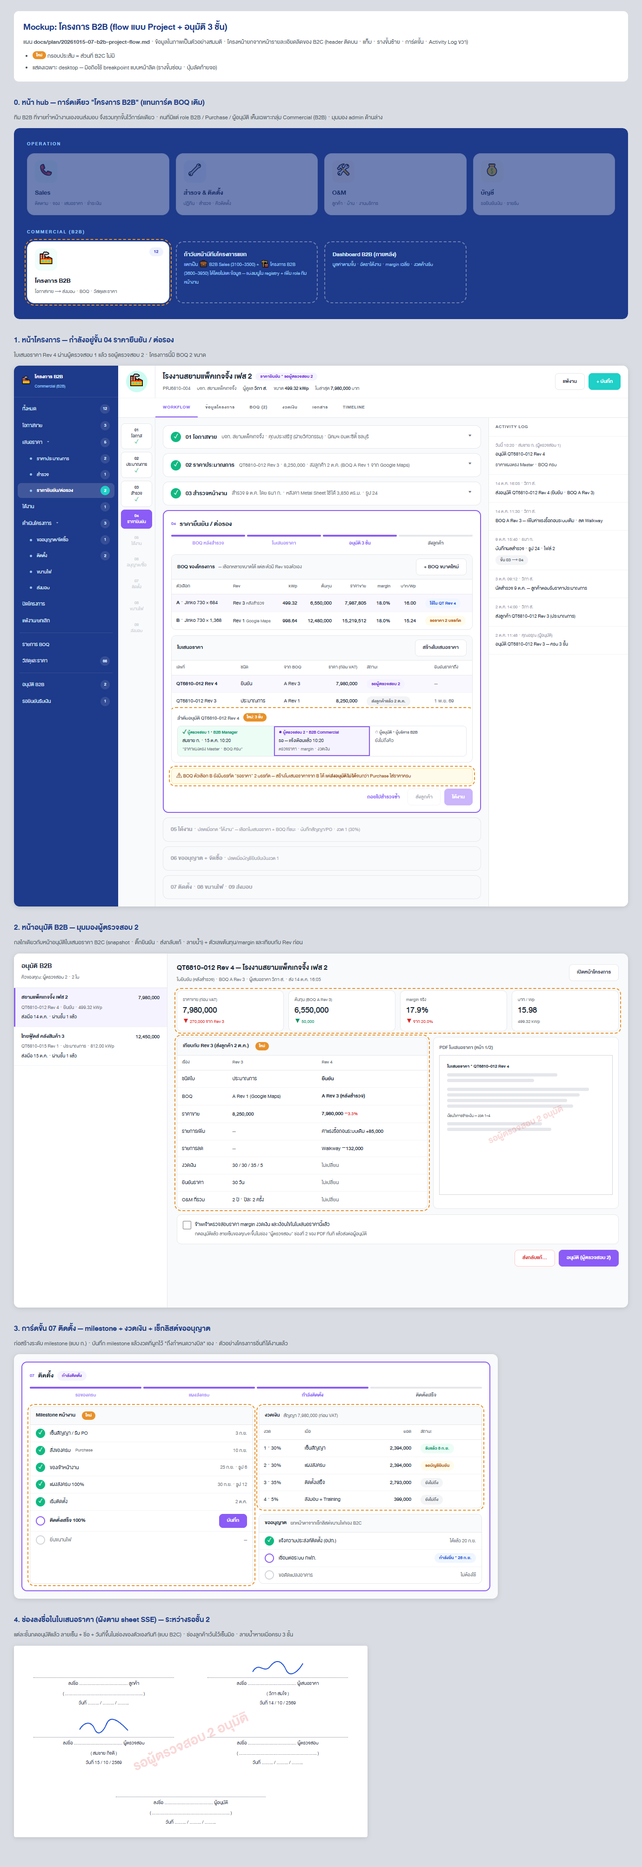
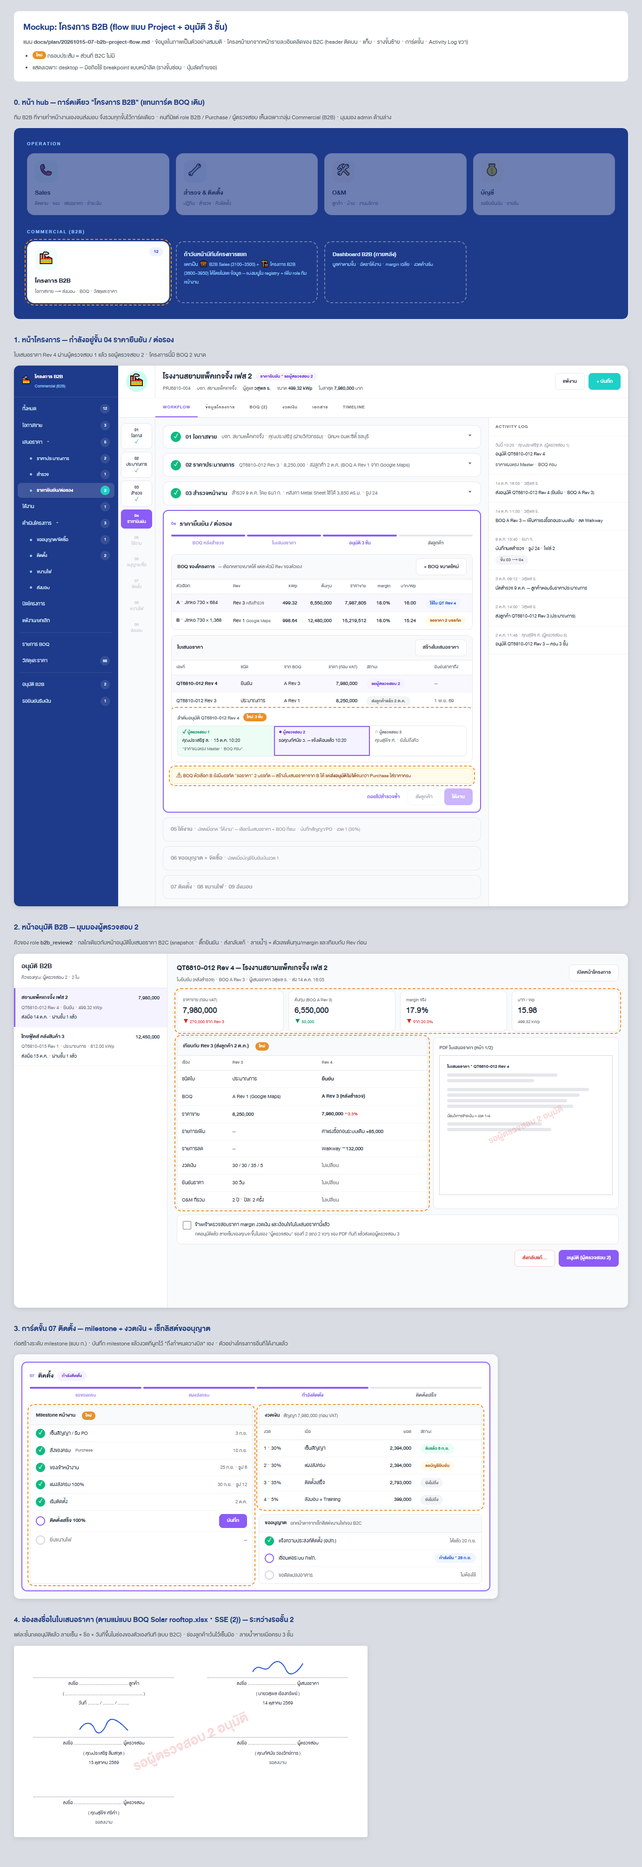
แผนโครงการ B2B: ผู้ตรวจสอบ 3 ช่องตามแม่แบบใบเสนอราคา + เคาะคำถามค้างครบ · เริ่มเฟส 1
- ป้าย/ผู้ลงชื่อตามแม่แบบ BOQ Solar rooftop.xlsx (sheet SSE (2)): ผู้เสนอราคา + ผู้ตรวจสอบ 3 ช่อง (ไม่มีช่องผู้อนุมัติ)
  → role ใหม่ b2b_review1–3 ตามตำแหน่งช่อง (ซ้าย → ขวา → แถวล่าง) แทนชื่อชั่วคราว
- ทั้ง 4 ท่านในแม่แบบยังไม่มีบัญชีใน solardb_v3 — ต้องสร้าง + อัปโหลดลายเซ็นก่อนทดสอบเฟส 2
- ลบ BOQ ทดสอบ 4 ใบด้วยสคริปต์ล้างข้อมูลเทสก่อนเฟส 1
- คำถามข้อ 2–6 ผู้ใช้ตอบ "ตามเสนอ" (อนุมัติ 2 ชั้นคนเดียวไม่ได้ยกเว้น admin · ผู้ดูแล 1 คน · Purchase เห็นเฉพาะขั้นจัดซื้อ
  · ยืนยันเงินใช้หน้าบัญชีเดิม · ปุ่มสลับรายการ/กระดาน)
- mockup: ช่องลงชื่อ/ชื่อผู้ตรวจสอบตามแม่แบบ · สถานะแผน in-progress

diff --git a/docs/mockup/20261015-07-b2b-project-flow/index.html b/docs/mockup/20261015-07-b2b-project-flow/index.html
@@ -153,7 +153,6 @@
   .sc{text-align:center}
   .sc .img{height:44px;display:flex;align-items:flex-end;justify-content:center}
   .sc .line{border-top:1px dotted var(--g500);margin:2px 16px 2px;padding-top:2px}
-  .sc.solo-row{grid-column:1 / span 2;max-width:50%;margin:0 auto;width:100%}
 </style>
 </head>
 <body>
@@ -170,7 +169,7 @@
 
 <!-- ═════════════ 0. หน้า hub ═════════════ -->
 <div class="sec-title">0. หน้า hub — การ์ดเดียว "โครงการ B2B" (แทนการ์ด BOQ เดิม)</div>
-<div class="sec-note">ทีม B2B ที่ขายทำหน้างานเองจนส่งมอบ จึงรวมทุกขั้นไว้การ์ดเดียว · คนที่มีแต่ role B2B / Purchase / ผู้อนุมัติ เห็นเฉพาะกลุ่ม Commercial (B2B) · มุมมอง admin ด้านล่าง</div>
+<div class="sec-note">ทีม B2B ที่ขายทำหน้างานเองจนส่งมอบ จึงรวมทุกขั้นไว้การ์ดเดียว · คนที่มีแต่ role B2B / Purchase / ผู้ตรวจสอบ เห็นเฉพาะกลุ่ม Commercial (B2B) · มุมมอง admin ด้านล่าง</div>
 <div class="scroll" style="box-shadow:none">
 <div class="hub">
   <div class="hub-g">Operation</div>
@@ -227,7 +226,7 @@
         <div class="hdr-txt">
           <h2>โรงงานสยามแพ็คเกจจิ้ง เฟส 2 <span class="pill p-active">ราคายืนยัน · รอผู้ตรวจสอบ 2</span></h2>
           <div class="hdr-meta">
-            <span>PRJ6810-004</span><span>บจก. สยามแพ็คเกจจิ้ง</span><span>ผู้ดูแล <b>วิภา ส.</b></span>
+            <span>PRJ6810-004</span><span>บจก. สยามแพ็คเกจจิ้ง</span><span>ผู้ดูแล <b>วสุพล ร.</b></span>
             <span>ขนาด <b class="num">499.32 kWp</b></span><span>ใบล่าสุด <b class="num">7,980,000</b> บาท</span>
           </div>
         </div>
@@ -287,9 +286,9 @@
             <div style="padding:8px 12px 12px" class="new">
               <div class="xs b muted">ลำดับอนุมัติ QT6810-012 Rev 4 <span class="newtag">ใหม่: 3 ชั้น</span></div>
               <div class="tier">
-                <div class="tb ok"><div class="k">✓ ผู้ตรวจสอบ 1 · B2B Manager</div>สมชาย ก. · 15 ต.ค. 10:20<br><span class="muted tiny">"ราคาแผงตรง Master · BOQ ครบ"</span></div>
-                <div class="tb wait"><div class="k">● ผู้ตรวจสอบ 2 · B2B Commercial</div>รอ — แจ้งเตือนแล้ว 10:20<br><span class="muted tiny">ตรวจราคา · margin · งวดเงิน</span></div>
-                <div class="tb"><div class="k">○ ผู้อนุมัติ · ผู้บริหาร B2B</div><span class="muted">ยังไม่ถึงคิว</span></div>
+                <div class="tb ok"><div class="k">✓ ผู้ตรวจสอบ 1</div>คุณประเสริฐ ล. · 15 ต.ค. 10:20<br><span class="muted tiny">"ราคาแผงตรง Master · BOQ ครบ"</span></div>
+                <div class="tb wait"><div class="k">● ผู้ตรวจสอบ 2</div>รอคุณทัศนัย ว. — แจ้งเตือนแล้ว 10:20</div>
+                <div class="tb"><div class="k">○ ผู้ตรวจสอบ 3</div><span class="muted">คุณสุพิจ ศ. · ยังไม่ถึงคิว</span></div>
               </div>
             </div>
           </div>
@@ -309,13 +308,13 @@
 
       <aside class="log">
         <div class="log-h">Activity Log</div>
-        <div class="le"><div class="w">วันนี้ 10:20 · สมชาย ก. (ผู้ตรวจสอบ 1)</div>อนุมัติ QT6810-012 Rev 4<q>ราคาแผงตรง Master · BOQ ครบ</q></div>
-        <div class="le"><div class="w">14 ต.ค. 16:05 · วิภา ส.</div>ส่งอนุมัติ QT6810-012 Rev 4 (ยืนยัน · BOQ A Rev 3)</div>
-        <div class="le"><div class="w">14 ต.ค. 11:30 · วิภา ส.</div>BOQ A Rev 3 — เพิ่มค่าแรงรื้อถอนระบบเดิม · ลด Walkway</div>
+        <div class="le"><div class="w">วันนี้ 10:20 · คุณประเสริฐ ล. (ผู้ตรวจสอบ 1)</div>อนุมัติ QT6810-012 Rev 4<q>ราคาแผงตรง Master · BOQ ครบ</q></div>
+        <div class="le"><div class="w">14 ต.ค. 16:05 · วสุพล ร.</div>ส่งอนุมัติ QT6810-012 Rev 4 (ยืนยัน · BOQ A Rev 3)</div>
+        <div class="le"><div class="w">14 ต.ค. 11:30 · วสุพล ร.</div>BOQ A Rev 3 — เพิ่มค่าแรงรื้อถอนระบบเดิม · ลด Walkway</div>
         <div class="le"><div class="w">9 ต.ค. 15:40 · ธนา ก.</div>บันทึกผลสำรวจ · รูป 24 · ไฟล์ 2<br><span class="pill p-gray" style="margin-top:4px">ขั้น 03 → 04</span></div>
-        <div class="le"><div class="w">3 ต.ค. 09:12 · วิภา ส.</div>นัดสำรวจ 9 ต.ค. — ลูกค้าตอบรับราคาประมาณการ</div>
-        <div class="le"><div class="w">2 ต.ค. 14:00 · วิภา ส.</div>ส่งลูกค้า QT6810-012 Rev 3 (ประมาณการ)</div>
-        <div class="le"><div class="w">2 ต.ค. 11:48 · คุณอรุณ (ผู้อนุมัติ)</div>อนุมัติ QT6810-012 Rev 3 — ครบ 3 ชั้น</div>
+        <div class="le"><div class="w">3 ต.ค. 09:12 · วสุพล ร.</div>นัดสำรวจ 9 ต.ค. — ลูกค้าตอบรับราคาประมาณการ</div>
+        <div class="le"><div class="w">2 ต.ค. 14:00 · วสุพล ร.</div>ส่งลูกค้า QT6810-012 Rev 3 (ประมาณการ)</div>
+        <div class="le"><div class="w">2 ต.ค. 11:48 · คุณสุพิจ ศ. (ผู้ตรวจสอบ 3)</div>อนุมัติ QT6810-012 Rev 3 — ครบ 3 ชั้น</div>
       </aside>
     </div>
   </div>
@@ -324,7 +323,7 @@
 
 <!-- ═════════════ 2. หน้าอนุมัติ B2B ═════════════ -->
 <div class="sec-title">2. หน้าอนุมัติ B2B — มุมมองผู้ตรวจสอบ 2</div>
-<div class="sec-note">กลไกเดียวกับหน้าอนุมัติใบเสนอราคา B2C (snapshot · ติ๊กยืนยัน · ส่งกลับแก้ · ลายน้ำ) + ตัวเลขต้นทุน/margin และเทียบกับ Rev ก่อน</div>
+<div class="sec-note">คิวของ role <b>b2b_review2</b> · กลไกเดียวกับหน้าอนุมัติใบเสนอราคา B2C (snapshot · ติ๊กยืนยัน · ส่งกลับแก้ · ลายน้ำ) + ตัวเลขต้นทุน/margin และเทียบกับ Rev ก่อน</div>
 <div class="scroll">
 <div class="apv">
   <div class="queue">
@@ -335,7 +334,7 @@
   <div class="detail">
     <div style="display:flex;align-items:center;gap:10px">
       <div><div class="b" style="font-size:21px">QT6810-012 Rev 4 — โรงงานสยามแพ็คเกจจิ้ง เฟส 2</div>
-      <div class="muted xs">ใบยืนยัน (หลังสำรวจ) · BOQ A Rev 3 · ผู้เสนอราคา วิภา ส. · ส่ง 14 ต.ค. 16:05</div></div>
+      <div class="muted xs">ใบยืนยัน (หลังสำรวจ) · BOQ A Rev 3 · ผู้เสนอราคา วสุพล ร. · ส่ง 14 ต.ค. 16:05</div></div>
       <a class="btn" style="margin-left:auto">เปิดหน้าโครงการ</a>
     </div>
 
@@ -374,7 +373,7 @@
       </div>
     </div>
 
-    <div class="certify"><input type="checkbox"><div>ข้าพเจ้าตรวจสอบราคา margin งวดเงิน และเงื่อนไขในใบเสนอราคานี้แล้ว<div class="muted xs">กดอนุมัติแล้ว ลายเซ็นของคุณจะขึ้นในช่อง "ผู้ตรวจสอบ" ช่องที่ 2 ของ PDF ทันที แล้วส่งต่อผู้อนุมัติ</div></div></div>
+    <div class="certify"><input type="checkbox"><div>ข้าพเจ้าตรวจสอบราคา margin งวดเงิน และเงื่อนไขในใบเสนอราคานี้แล้ว<div class="muted xs">กดอนุมัติแล้ว ลายเซ็นของคุณจะขึ้นในช่อง "ผู้ตรวจสอบ" ช่องที่ 2 (แถว 2 ขวา) ของ PDF ทันที แล้วส่งต่อผู้ตรวจสอบ 3</div></div></div>
     <div class="foot">
       <button class="btn" style="color:var(--red);border-color:#fecaca">ส่งกลับแก้…</button>
       <button class="btn btn-active">อนุมัติ (ผู้ตรวจสอบ 2)</button>
@@ -424,15 +423,15 @@
 </div>
 
 <!-- ═════════════ 4. ช่องลงชื่อใน PDF ═════════════ -->
-<div class="sec-title">4. ช่องลงชื่อในใบเสนอราคา (ผังตาม sheet SSE) — ระหว่างรอชั้น 2</div>
+<div class="sec-title">4. ช่องลงชื่อในใบเสนอราคา (ตามแม่แบบ BOQ Solar rooftop.xlsx · SSE (2)) — ระหว่างรอชั้น 2</div>
 <div class="sec-note">แต่ละชั้นกดอนุมัติแล้ว ลายเซ็น + ชื่อ + วันที่ขึ้นในช่องของตัวเองทันที (แบบ B2C) · ช่องลูกค้าเว้นไว้เซ็นมือ · ลายน้ำหายเมื่อครบ 3 ชั้น</div>
 <div class="sheet">
   <div class="sig">
     <div class="sc"><div class="img"></div><div class="line">ลงชื่อ ................................. ลูกค้า</div><div>( ..................................................... )</div><div>วันที่ ........ / ........ / ........</div></div>
-    <div class="sc"><div class="img"><svg width="120" height="40" viewBox="0 0 120 40"><path d="M6 30 C20 6, 30 36, 44 18 S70 8, 78 26 S104 30, 114 12" fill="none" stroke="#1d4ed8" stroke-width="2"/></svg></div><div class="line">ลงชื่อ ................................. ผู้เสนอราคา</div><div>( วิภา สมใจ )</div><div>วันที่ 14 / 10 / 2569</div></div>
-    <div class="sc"><div class="img"><svg width="120" height="40" viewBox="0 0 120 40"><path d="M8 26 C18 8, 34 8, 40 24 S58 34, 66 14 S92 6, 112 28" fill="none" stroke="#1d4ed8" stroke-width="2"/></svg></div><div class="line">ลงชื่อ ................................. ผู้ตรวจสอบ</div><div>( สมชาย กิจดี )</div><div>วันที่ 15 / 10 / 2569</div></div>
-    <div class="sc"><div class="img"></div><div class="line">ลงชื่อ ................................. ผู้ตรวจสอบ</div><div>( ..................................................... )</div><div>วันที่ ........ / ........ / ........</div></div>
-    <div class="sc solo-row"><div class="img"></div><div class="line">ลงชื่อ ................................. ผู้อนุมัติ</div><div>( ..................................................... )</div><div>วันที่ ........ / ........ / ........</div></div>
+    <div class="sc"><div class="img"><svg width="120" height="40" viewBox="0 0 120 40"><path d="M6 30 C20 6, 30 36, 44 18 S70 8, 78 26 S104 30, 114 12" fill="none" stroke="#1d4ed8" stroke-width="2"/></svg></div><div class="line">ลงชื่อ ................................. ผู้เสนอราคา</div><div>( นายวสุพล เรืองทรัพย์ )</div><div>14 ตุลาคม 2569</div></div>
+    <div class="sc"><div class="img"><svg width="120" height="40" viewBox="0 0 120 40"><path d="M8 26 C18 8, 34 8, 40 24 S58 34, 66 14 S92 6, 112 28" fill="none" stroke="#1d4ed8" stroke-width="2"/></svg></div><div class="line">ลงชื่อ ................................. ผู้ตรวจสอบ</div><div>( คุณประเสริฐ ลิ่มสกุล )</div><div>15 ตุลาคม 2569</div></div>
+    <div class="sc"><div class="img"></div><div class="line">ลงชื่อ ................................. ผู้ตรวจสอบ</div><div>( คุณทัศนัย ว่องวิทย์การ )</div><div class="muted">รอลงนาม</div></div>
+    <div class="sc"><div class="img"></div><div class="line">ลงชื่อ ................................. ผู้ตรวจสอบ</div><div>( คุณสุพิจ ศรีคำ )</div><div class="muted">รอลงนาม</div></div>
   </div>
   <div class="wm" style="font-size:40px">รอผู้ตรวจสอบ 2 อนุมัติ</div>
 </div>

diff --git a/docs/plan/20261015-07-b2b-project-flow.md b/docs/plan/20261015-07-b2b-project-flow.md
@@ -3,7 +3,7 @@
 ที่มา: 15 ต.ค. 69 ผู้ใช้ถามว่าถ้าจะทำ B2B แบบงาน B2C (ขาย + O&M) ให้แต่ละโครงการมี flow แบบ Project พร้อม flow อนุมัติ
 ต้องคิดอย่างไร — ต่อยอดจากโมดูล BOQ ([20261005-01-b2b-boq-module.md](20261005-01-b2b-boq-module.md) ครบ 4 เฟสแล้ว)
 
-สถานะ: **backlog** — ออกแบบเคาะครบ 15 ต.ค. 69 · รอเริ่มเฟส 1 · ชื่อตำแหน่งผู้อนุมัติ 3 ชั้นยังเป็นชื่อชั่วคราว (คำถามข้อ 1)
+สถานะ: **in-progress** — ออกแบบเคาะครบ 15 ต.ค. 69 · **เริ่มเฟส 1 วันที่ 15 ต.ค.** · ก่อนเฟส 2 ต้องสร้างบัญชีผู้เสนอราคา + ผู้ตรวจสอบ 3 ท่าน พร้อมลายเซ็น (หัวข้อ 3)
 
 Mockup: [docs/mockup/20261015-07-b2b-project-flow/index.html](../mockup/20261015-07-b2b-project-flow/index.html)
 
@@ -18,10 +18,12 @@ Mockup: [docs/mockup/20261015-07-b2b-project-flow/index.html](../mockup/20261015
 | ลำดับขั้น | 3100–3900 **ตามเสนอ** (หัวข้อ 1) — เสนอราคาประมาณการก่อน แล้วค่อยสำรวจ |
 | ก่อสร้าง | **ระดับ milestone** (แบบ ก.) — บันทึกเหตุการณ์หลัก + วันที่ + รูป/เอกสาร ผูกงวดเงิน · ไม่ทำ Gantt / รายงานประจำวัน |
 | อนุมัติ | **เหมือน B2C** — อนุมัติที่ใบเสนอราคาเท่านั้น สถานะอยู่ในตัวใบ (ไม่มีตารางอนุมัติกลาง) · BOQ ไม่อนุมัติแยก (ติดไปเป็น snapshot) |
-| จำนวนชั้น | **3 ชั้นตามช่องลงชื่อในใบ SSE** (แบบ ข.): ผู้ตรวจสอบ 1 → ผู้ตรวจสอบ 2 → ผู้อนุมัติ · ทุกใบ ทั้งใบประมาณการและใบยืนยัน (ถ้าใช้จริงแล้วช้า ค่อยพิจารณาให้ใบประมาณการผ่าน 2 ชั้น) |
+| จำนวนชั้น | **3 ชั้นตามช่องลงชื่อในใบ SSE** (แบบ ข.): ผู้ตรวจสอบ 1 → ผู้ตรวจสอบ 2 → ผู้ตรวจสอบ 3 · ทุกใบ ทั้งใบประมาณการและใบยืนยัน (ถ้าใช้จริงแล้วช้า ค่อยพิจารณาให้ใบประมาณการผ่าน 2 ชั้น) |
 | BOQ ต่อโครงการ | **หลายตัวได้** (เช่น BGAC เสนอ 4 ขนาด) — แต่ละตัวมี Rev ของตัวเอง |
 | O&M หลังส่งมอบ | **แยกจากโมดูล O&M เดิม** — เฟสนี้เก็บแค่สิทธิ์ O&M ที่เขียนในใบไว้กับโครงการ |
 | การ์ดบน hub | **การ์ดเดียว "โครงการ B2B"** — ทีม B2B ที่ขายเป็นคนทำงานหน้างานเองจนส่งมอบ ⇒ ไม่แยกการ์ดตามทีมแบบ B2C (หัวข้อ 6) |
+| ป้าย/ผู้ลงชื่อ | **ตามแม่แบบใบเสนอราคาในไฟล์ Excel** (`BOQ Solar rooftop.xlsx` sheet `SSE (2)`) — ผู้เสนอราคา + **ผู้ตรวจสอบ 3 ช่อง ไม่มีช่อง "ผู้อนุมัติ"** (หัวข้อ 3) |
+| BOQ ทดสอบ 4 ใบ | **ลบด้วยสคริปต์ล้างข้อมูลเทสก่อนเริ่มเฟส 1** ตามข้อเสนอ — ไม่สร้างโครงการย้อนให้ |
 
 ## ข้อมูลจากไฟล์จริงที่ใช้ออกแบบ
 
@@ -31,8 +33,10 @@ Mockup: [docs/mockup/20261015-07-b2b-project-flow/index.html](../mockup/20261015
   - หมายเหตุ: "ราคาประมาณการจาก Google Maps … ต้องเข้าสำรวจหน้างานจริงเพื่อยืนยันราคาอีกรอบ" ⇒ **เสนอราคาก่อนสำรวจ** · Rev.9 แล้วยังเป็นราคาประมาณการ
   - งวดชำระ 4 งวด: **30%** ลงนามสัญญา · **30%** แผงส่งถึงโครงการครบ 100% · **35%** ติดตั้งเสร็จ 100% · **5%** ส่งใบส่งมอบงาน + Training
   - เอกสารขออนุญาต 3 อย่าง: แจ้งความประสงค์ติดตั้งกับ อปท. · ผลพิจารณาเชื่อมต่อ กฟน./กฟภ. · เอกสารโครงสร้าง/สถาปัตย์ขอดัดแปลงอาคาร
-  - ช่องลงชื่อ 5 ช่อง: ลูกค้า · ผู้เสนอราคา · ผู้ตรวจสอบ · ผู้ตรวจสอบ · ผู้อนุมัติ
+  - ช่องลงชื่อ 5 ช่อง: ลูกค้า · ผู้เสนอราคา · ผู้ตรวจสอบ · ผู้ตรวจสอบ · ผู้อนุมัติ (ใบนี้เปลี่ยนช่องที่ 3 เป็น "ผู้อนุมัติ" — **ระบบใช้ตามแม่แบบ** ด้านล่าง)
   - รวม O&M 2 ปี ปีละ 2 ครั้ง (Thermoscan · ตรวจกายภาพแผง) · รับประกันงานติดตั้ง 2 ปีนับจากใบส่งมอบ · ยืนยันราคา 30 วัน
+- **แม่แบบ** `BOQ Solar rooftop.xlsx` sheet `SSE (2)` — ช่องลงชื่อที่ระบบใช้ (ผู้ใช้เคาะ 15 ต.ค. "ใช้ตามตัวอย่างใบเสนอราคาในไฟล์ excel"):
+  แถว 1 ลูกค้า | ผู้เสนอราคา · แถว 2 ผู้ตรวจสอบ | ผู้ตรวจสอบ · แถว 3 ผู้ตรวจสอบ (ชิดซ้าย) · ใต้ลายเซ็น (ชื่อ) + วันที่แบบ "15 ตุลาคม 2569"
 - **BGAC Rev.3.2** — ไฟล์เดียวมี BOQ 4 ขนาด (998.64 kWp · 1.25 · 2.7 · 3.205 MWp) + sheet "after PO"
 
 ## 1. ขั้นของโครงการ (journey สาย 3000)
@@ -61,7 +65,7 @@ Mockup: [docs/mockup/20261015-07-b2b-project-flow/index.html](../mockup/20261015
 | 3210 / 3410 | ร่าง | Solar B2B |
 | 3220 / 3420 | รอผู้ตรวจสอบ 1 | ชั้น 1 |
 | 3230 / 3430 | รอผู้ตรวจสอบ 2 | ชั้น 2 |
-| 3240 / 3440 | รอผู้อนุมัติ | ชั้น 3 |
+| 3240 / 3440 | รอผู้ตรวจสอบ 3 | ชั้น 3 |
 | 3250 / 3450 | ส่งกลับแก้ | Solar B2B |
 | 3260 / 3460 | อนุมัติแล้ว รอส่งลูกค้า | Solar B2B |
 | 3270 / 3470 | ส่งลูกค้าแล้ว รอตอบ | Solar B2B (ติดตาม) |
@@ -81,7 +85,7 @@ Mockup: [docs/mockup/20261015-07-b2b-project-flow/index.html](../mockup/20261015
 - หน้า "รายการ BOQ" เดิมยังอยู่ (เห็นทุกโครงการ) — เพิ่มคอลัมน์ "โครงการ" กดไปหน้าโครงการได้
 - ตอน "ได้งาน" เลือก BOQ Rev ที่ชนะ → `b2b_projects.won_boq_id` = **งบต้นทุนของโครงการ** ให้ Purchase ใช้สั่งของ
   (Purchase เห็นต้นทุน ไม่เห็นราคาขาย — กติกาเดิมจากแผน BOQ)
-- BOQ ทดสอบ 4 ใบที่มีอยู่: ลบด้วย "สคริปต์ล้างข้อมูลเทส" ที่ผู้ใช้ขอไว้ (แผน BOQ) ก่อนเริ่มเฟส 1 — ไม่ต้องสร้างโครงการย้อนให้
+- BOQ ทดสอบ 4 ใบที่มีอยู่: ลบด้วย "สคริปต์ล้างข้อมูลเทส" ที่ผู้ใช้ขอไว้ (แผน BOQ) ก่อนเริ่มเฟส 1 — ไม่ต้องสร้างโครงการย้อนให้ (**เคาะ 15 ต.ค.**)
 
 ## 3. ใบเสนอราคา B2B + อนุมัติ 3 ชั้น
 
@@ -92,11 +96,13 @@ Mockup: [docs/mockup/20261015-07-b2b-project-flow/index.html](../mockup/20261015
   · VAT · รับประกันอุปกรณ์/ติดตั้ง · ยืนยันราคา N วัน (ตั้งต้น 30) · หมายเหตุ/เงื่อนไข · O&M ที่รวมในราคา (จำนวนปี · ครั้งต่อปี · รายการ)
 - ข้อความตั้งต้น (เงื่อนไข · หมายเหตุ · รับประกัน) เก็บเป็น master แก้ได้ แบบ `quotation_terms` ของ B2C — ใบที่ออกแล้วแช่ข้อความไว้ใน snapshot
 - PDF ผังตาม `SSE (2)` 2 หน้า (ใบเสนอราคา + รายละเอียดรับประกัน/หมายเหตุ) — ใช้ตัวทำ PDF ชุดเดียวกับใบเสนอราคา B2C
+- ช่องลงชื่อตามแม่แบบ: แถว 1 ลูกค้า (เว้นเซ็นมือ) | ผู้เสนอราคา (= ผู้ทำใบ) · แถว 2 ผู้ตรวจสอบ 1 | ผู้ตรวจสอบ 2 · แถว 3 ผู้ตรวจสอบ 3
+  ทุกช่องป้ายว่า "ผู้ตรวจสอบ" เหมือนในแม่แบบ — ลำดับชั้นกำหนดจากตำแหน่งช่อง (ซ้าย → ขวา → แถวล่าง)
 
 ### ลำดับอนุมัติ (ยกกลไกจากใบเสนอราคา B2C ทั้งก้อน)
 
 ```
-ร่าง ──ส่งอนุมัติ──→ รอผู้ตรวจสอบ 1 ──→ รอผู้ตรวจสอบ 2 ──→ รอผู้อนุมัติ ──→ อนุมัติแล้ว ──ส่งลูกค้า──→ ส่งแล้ว รอตอบ
+ร่าง ──ส่งอนุมัติ──→ รอผู้ตรวจสอบ 1 ──→ รอผู้ตรวจสอบ 2 ──→ รอผู้ตรวจสอบ 3 ──→ อนุมัติแล้ว ──ส่งลูกค้า──→ ส่งแล้ว รอตอบ
                           │                  │                │
                           └──── ส่งกลับแก้ (พร้อมเหตุผล) ────┘ → ร่าง → ส่งใหม่เริ่มชั้น 1
 ```
@@ -109,17 +115,22 @@ Mockup: [docs/mockup/20261015-07-b2b-project-flow/index.html](../mockup/20261015
 
 เพิ่มจาก B2C
 - **ส่งอนุมัติไม่ได้ถ้า BOQ ยังมีบรรทัด "รอราคา"** (`pending_lines > 0`) — บรรทัดรอราคาคิดเป็น 0 ใบจะออกราคาต่ำกว่าจริง
-- หน้าอนุมัติแสดง ต้นทุน · margin · ราคาขาย · บาท/Wp และ **เทียบกับ Rev ก่อนหน้า** (ยอด · margin · งวดเงิน · เงื่อนไขที่เปลี่ยน) — ใบต่อรองหลาย Rev ผู้อนุมัติไม่ต้องไล่ดูทั้งใบใหม่
+- หน้าอนุมัติแสดง ต้นทุน · margin · ราคาขาย · บาท/Wp และ **เทียบกับ Rev ก่อนหน้า** (ยอด · margin · งวดเงิน · เงื่อนไขที่เปลี่ยน) — ใบต่อรองหลาย Rev ผู้ตรวจสอบไม่ต้องไล่ดูทั้งใบใหม่
 - ใบที่เลยวันยืนยันราคาติดป้าย "หมดอายุ" บนหน้าโครงการ
 
-### ใครอนุมัติ — role ใหม่ 3 ตัว (ชื่อชั่วคราว รอผู้ใช้ยืนยันตำแหน่งจริง)
+### ใครอนุมัติ — role ใหม่ 3 ตัว ตามช่องลงชื่อในแม่แบบ (เคาะ 15 ต.ค.)
 
-| ชั้น | ช่องในใบ | role key | ป้าย | ตรวจอะไร |
+| ชั้น | ช่องในใบ | role key | ป้ายในหน้าผู้ใช้ | ผู้ลงชื่อในแม่แบบ |
 |---|---|---|---|---|
-| 1 | ผู้ตรวจสอบ | `b2b_sup` (ที่พักไว้ในแผน BOQ) | B2B Manager | เทคนิค: BOQ · ขนาดระบบ · อุปกรณ์ · ราคาครบทุกบรรทัด |
-| 2 | ผู้ตรวจสอบ | `b2b_commercial` | B2B Commercial | ราคา · margin · งวดเงิน · เงื่อนไข/หมายเหตุ |
-| 3 | ผู้อนุมัติ | `b2b_exec` | ผู้บริหาร B2B | อนุมัติสุดท้าย |
+| — | ผู้เสนอราคา (แถว 1 ขวา) | `b2b` (มีอยู่แล้ว) | Solar B2B | นายวสุพล เรืองทรัพย์ |
+| 1 | ผู้ตรวจสอบ (แถว 2 ซ้าย) | `b2b_review1` | B2B ผู้ตรวจสอบ 1 | คุณประเสริฐ ลิ่มสกุล |
+| 2 | ผู้ตรวจสอบ (แถว 2 ขวา) | `b2b_review2` | B2B ผู้ตรวจสอบ 2 | คุณทัศนัย ว่องวิทย์การ |
+| 3 | ผู้ตรวจสอบ (แถว 3) | `b2b_review3` | B2B ผู้ตรวจสอบ 3 | คุณสุพิจ ศรีคำ |
 
+- ผูกสิทธิ์กับ **role ไม่ผูกกับตัวคน** — แต่ละชั้นมีคนสำรองได้ (ให้ role เดียวกันอีกคน) · ชื่อ/ลายเซ็นในช่องมาจากบัญชีของคนที่กดจริง (แบบ B2C)
+- แม่แบบไม่ได้ระบุว่าแต่ละช่องตรวจเรื่องอะไร ⇒ ระบบบังคับแค่ **ลำดับ** 1 → 2 → 3
+- เลิกใช้ชื่อ `b2b_sup` ที่พักไว้ในแผน BOQ (แทนด้วย 3 role นี้)
+- ⚠ เช็ค `solardb_v3` 15 ต.ค.: **ทั้ง 4 ท่านยังไม่มีบัญชีในระบบ** — ต้องสร้างผู้ใช้ + อัปโหลดลายเซ็น (`users.signature_url`) ก่อนทดสอบเฟส 2
 - ทีม B2B แยกจาก rooftop ⇒ ไม่ใช้ Solar Manager / Sale Manager ของ B2C
 - เพิ่ม role ต้องแก้ **6 จุด** (ดูแผน BOQ หัวข้อ 1) · `users.roles` เป็น JSON ไม่ต้องมี migration
 - เมนูคิว "อนุมัติ B2B" ใส่ใน `INJECTED_MENU_ITEMS` (เห็นเฉพาะ 3 role นี้ + admin) — หน้า `/b2b/approvals` แยกจาก `/quotation-approvals` ของ B2C
@@ -161,7 +172,7 @@ Mockup: [docs/mockup/20261015-07-b2b-project-flow/index.html](../mockup/20261015
   — B2B ทีมที่ขายทำหน้างานเองจนส่งมอบ ถ้าแยกการ์ด คนกลุ่มเดิมต้องสลับการ์ดไปมาโดยไม่ได้อะไรเพิ่ม
 - ถ้าวันหน้ามีทีมโครงการแยก: แตกเป็น 💼 B2B Sales (3100–3500) + 🏗 โครงการ B2B (3600–3950) ได้โดยไม่แตะข้อมูล
   — แค่แบ่งเมนูใน registry `MODULES` + เพิ่ม role ทีมหน้างาน (เช่น `b2b_pm`) · หน้าโครงการยังเป็นหน้าเดียว
-- role ที่เห็นการ์ด: `b2b` · `purchase` · ผู้อนุมัติ 3 ชั้น · `admin` — ผู้อนุมัติที่มี role เดียวเข้ามาเห็นรายการโครงการ + เมนูคิว "อนุมัติ B2B"
+- role ที่เห็นการ์ด: `b2b` · `purchase` · `b2b_review1–3` · `admin` — ผู้ตรวจสอบที่มี role เดียวเข้ามาเห็นรายการโครงการ + เมนูคิว "อนุมัติ B2B"
 
 ```
 ทั้งหมด
@@ -197,7 +208,7 @@ Mockup: [docs/mockup/20261015-07-b2b-project-flow/index.html](../mockup/20261015
 | `b2b_customers` | บริษัท · เลขผู้เสียภาษี · สาขา · ที่อยู่ · ผู้ติดต่อ (หลายคน) — 1 บริษัทมีหลายโครงการ (เช่น KJL Phase 1–3) |
 | `b2b_projects` | เลขที่ (PRJyymm-nnn) · ชื่อ · ลูกค้า · ผู้ติดต่อ · ที่ตั้ง · Lat/Long · `stage` · ผู้ดูแล · เหตุผลแพ้/ยกเลิก · ใบ/BOQ ที่ชนะ · มูลค่าสัญญา · วันเซ็น · ผลสำรวจ (วันนัด · ผู้สำรวจ · บันทึก) · สิทธิ์ O&M (ปี · ครั้งต่อปี) · รับประกันติดตั้ง (ปี · เริ่ม) |
 | `b2b_boqs` (แก้) | + `project_id` · `option_label` |
-| `b2b_quotations` | โครงการ · `boq_id` · เลขที่ + Rev · ชนิด · สถานะ · งวดเงิน (JSON) · เงื่อนไข · snapshot · ผู้อนุมัติ 3 ชั้น (ผู้กด · เวลา · หมายเหตุ · ลายเซ็น snapshot) แบบคอลัมน์ของ `quotations` B2C |
+| `b2b_quotations` | โครงการ · `boq_id` · เลขที่ + Rev · ชนิด · สถานะ · งวดเงิน (JSON) · เงื่อนไข · snapshot · ผู้ตรวจสอบ 3 ชั้น (ผู้กด · เวลา · หมายเหตุ · ลายเซ็น snapshot) แบบคอลัมน์ของ `quotations` B2C |
 | `b2b_project_installments` | งวด · % · ยอด · เหตุการณ์ที่ผูก · สถานะ · หลักฐาน · ผู้ยืนยัน |
 | `b2b_project_milestones` | ชนิด · วันที่ · ผู้บันทึก · หมายเหตุ · ไฟล์ |
 | `b2b_project_permits` | ชนิด (3 อย่าง) · สถานะ · วันยื่น/วันได้ · ไฟล์ |
@@ -208,18 +219,18 @@ Mockup: [docs/mockup/20261015-07-b2b-project-flow/index.html](../mockup/20261015
 | เฟส | งาน | เสร็จเมื่อ |
 |---|---|---|
 | 1 แกนโครงการ | ลูกค้า + โครงการ + ขั้น 3100–3400 (ยังไม่มีใบเสนอราคา) · หน้ารายการ · หน้าโครงการ (header · ราง · การ์ด · timeline) · ผูก BOQ เข้าโครงการ · แพ้/ยกเลิก/เปิดกลับ · badge | สร้างโครงการ → ทำ BOQ หลายขนาด → นัด/บันทึกสำรวจ ได้ครบในหน้าเดียว |
-| 2 ใบเสนอราคา + อนุมัติ | `b2b_quotations` · PDF ผัง SSE · role 3 ตัว · อนุมัติ 3 ชั้น · หน้าอนุมัติ B2B + เมนูคิว · แจ้งเตือน · เทียบ Rev | ใบผ่าน 3 ชั้น ลายเซ็นขึ้นครบ ส่งลูกค้าได้ |
+| 2 ใบเสนอราคา + อนุมัติ | `b2b_quotations` · PDF ผัง SSE · role `b2b_review1–3` + บัญชี/ลายเซ็น 4 ท่าน · อนุมัติ 3 ชั้น · หน้าอนุมัติ B2B + เมนูคิว · แจ้งเตือน · เทียบ Rev | ใบผ่าน 3 ชั้น ลายเซ็นขึ้นครบ ส่งลูกค้าได้ |
 | 3 ได้งาน + งวดเงิน | ปุ่มได้งาน · ล็อก BOQ เป็นงบ · งวดเงิน · บัญชียืนยัน · ขั้น 3500 → 3600 | รับงวด 1 แล้วโครงการเข้าขั้นจัดซื้อเอง |
 | 4 ดำเนินโครงการ | milestone · เช็กลิสต์ขออนุญาต · ขนานไฟ · ส่งมอบ · งวด 2–4 · ปิดโครงการ · เก็บสิทธิ์ O&M | เดินครบ 3100 → 3950 ได้ 1 โครงการ |
 | ภายหลัง | จัดซื้อเต็มรูป (PO · งบเทียบจ่ายจริง) · โมดูล O&M B2B · ROI 30 ปี · แถบล่างมือถือ · Dashboard B2B (มูลค่าตามขั้น · อัตราได้งาน · margin เฉลี่ย · งวดค้างรับ) | — |
 
 เฟส 1 แตะไฟล์กลาง: `modules.tsx` (เมนู/การ์ด) · `api/journey-summary` (แถว B2B) — แก้ใน `v3-b2b` แบบที่ทำกับ badge "รอราคา"
 
-## 9. คำถามค้าง
+## 9. คำถามที่เคยค้าง (เคาะครบ 15 ต.ค. — ข้อ 2–6 ผู้ใช้ตอบ "ตามเสนอ")
 
-| # | คำถาม | ข้อเสนอ |
+| # | คำถาม | เคาะ |
 |---|---|---|
-| 1 | ชื่อตำแหน่งจริงของผู้ตรวจสอบ 1 · ผู้ตรวจสอบ 2 · ผู้อนุมัติ | ใช้ชื่อชั่วคราวในหัวข้อ 3 ไปก่อน แก้ป้ายทีหลังได้ (key ควรเคาะก่อนเฟส 2) |
+| ~~1~~ | ~~ชื่อตำแหน่งของผู้ตรวจสอบ 3 ชั้น~~ | **เคาะ 15 ต.ค.: ตามแม่แบบใบเสนอราคาใน Excel** (หัวข้อ 3) |
 | 2 | คนเดียวกันอนุมัติ 2 ชั้นในใบเดียวได้ไหม | ไม่ได้ ยกเว้น admin |
 | 3 | ผู้ดูแลโครงการ 1 คน หรือหลายคน | 1 คน (เจ้าของงาน) + ทีม B2B ทุกคนเห็นทุกโครงการ |
 | 4 | Purchase เห็นหน้าโครงการไหม | เห็นเฉพาะขั้น 3600 + งบต้นทุน (ไม่เห็นราคาขาย/ใบเสนอราคา) |

diff --git a/docs/plan/_status.md b/docs/plan/_status.md
@@ -142,4 +142,4 @@ Statuses:
 | [20261015-04-om-service-doc-quota-count.md](20261015-04-om-service-doc-quota-count.md) | done | - | **เสร็จ 15 ต.ค.** ใบบริการ O&M แสดง "สิทธิ์ล้างแผง ครั้งที่ 3 · คงเหลือ 1 ครั้ง" — จดตัวเลขลง om_redemptions ตอนปิดงาน (ใบเก่าไม่เปลี่ยนเลข) + เติมย้อนหลังใบที่ปิดแล้ว |
 | [20261015-05-om-services-project-filter.md](20261015-05-om-services-project-filter.md) | done | - | **เสร็จ 15 ต.ค.** dropdown โครงการหน้างานบริการนับตามแท็บที่เปิด (เดิมนับแท็บติดตามเสมอ — 46 จาก 98 โครงการไม่ขึ้น) + ตัวเลือก "ลูกค้าทั่วไป · นอกโครงการ" กรองได้จริง (เดิมขึ้นเป็น "บ้านอาจารย์บุญสม · 17") · ชิปบ้านที่เพิ่มเองเปลี่ยน "สิทธิ์หมด" → "ลูกค้าทั่วไป" · กันเบอร์ปลอม 0000000000 ฯลฯ ในฟอร์มเพิ่มบ้าน · ไม่มี migration · API 28/28 ผ่าน |
 | [20261015-06-om-settings-cleanup.md](20261015-06-om-settings-cleanup.md) | done | - | **เสร็จ 15 ต.ค.** ตั้งค่า O&M แท็บกติกา: ไล่ 27 คีย์ใน om_settings เทียบโค้ด — ซ่อนค่าที่แก้แล้วไม่มีผล 9 ตัว (advance_hours_min · by_customer · call.hours · job.* · notify.* หลังเอาเจ้าของงานออก) · เพิ่มกลุ่มโทรติดตาม call.* 3 ค่าที่ใช้งานจริงแต่ไม่เคยโผล่ · เอากล่องเหลืองรอ business ออก (cancel/no-show ไม่มีโค้ดอ่าน · ผู้ใช้สั่ง) · เอาป้ายรอ business ยืนยัน + กล่องเหลืองแท็บคิวจับคู่ออก + ซ่อนแท็บใบตรวจรับงาน (ผู้ใช้สั่ง · ตัวหน้า/API ยังอยู่) · การ์ด 1/2/3 คอลัมน์ + สวิตช์ + หน่วยในช่อง · ไม่มี migration; tsc/eslint ผ่าน + ทดสอบบันทึกตัวเลข/สวิตช์บนหน้าจริงแล้วคืนค่า |
-| [20261015-07-b2b-project-flow.md](20261015-07-b2b-project-flow.md) | backlog | [mockup](../mockup/20261015-07-b2b-project-flow/index.html) | โครงการ B2B แบบ Project ต่อยอดโมดูล BOQ (20261005-01) · **เคาะ 15 ต.ค.**: แกน `b2b_projects` (ตาราง b2b_* ไม่ปน leads) · ขั้น 3100–3950 (ราคาประมาณการก่อน → สำรวจ → ราคายืนยัน → ได้งาน → ขออนุญาต/จัดซื้อ → ติดตั้ง → ขนานไฟ → ส่งมอบ) · ก่อสร้างระดับ milestone ผูกงวดเงิน 30/30/35/5 · อนุมัติแบบ B2C ที่ใบเสนอราคา **3 ชั้นตามช่องลงชื่อใบ SSE** · หลาย BOQ ต่อโครงการ · O&M B2B แยก · **การ์ดเดียว "โครงการ B2B"** (ทีมที่ขายทำหน้างานเอง — ไม่แยกการ์ดตามทีมแบบ B2C) · 4 เฟส · ค้าง: ชื่อตำแหน่งผู้อนุมัติ 3 ชั้น (ใช้ชื่อชั่วคราว) |
+| [20261015-07-b2b-project-flow.md](20261015-07-b2b-project-flow.md) | in-progress | [mockup](../mockup/20261015-07-b2b-project-flow/index.html) | โครงการ B2B แบบ Project ต่อยอดโมดูล BOQ (20261005-01) · **เคาะ 15 ต.ค.**: แกน `b2b_projects` (ตาราง b2b_* ไม่ปน leads) · ขั้น 3100–3950 (ราคาประมาณการก่อน → สำรวจ → ราคายืนยัน → ได้งาน → ขออนุญาต/จัดซื้อ → ติดตั้ง → ขนานไฟ → ส่งมอบ) · ก่อสร้างระดับ milestone ผูกงวดเงิน 30/30/35/5 · อนุมัติแบบ B2C ที่ใบเสนอราคา **3 ชั้นตามช่องลงชื่อใบ SSE** · หลาย BOQ ต่อโครงการ · O&M B2B แยก · **การ์ดเดียว "โครงการ B2B"** (ทีมที่ขายทำหน้างานเอง — ไม่แยกการ์ดตามทีมแบบ B2C) · ป้าย/ผู้ลงชื่อตามแม่แบบ SSE (2): ผู้ตรวจสอบ 3 ช่อง → role `b2b_review1–3` · ลบ BOQ ทดสอบก่อนเฟส 1 · คำถามค้างเคาะ "ตามเสนอ" ครบ · 4 เฟส · **เริ่มเฟส 1 (แกนโครงการ) 15 ต.ค.** · ก่อนเฟส 2 ต้องสร้างบัญชี + ลายเซ็น 4 ท่าน |
